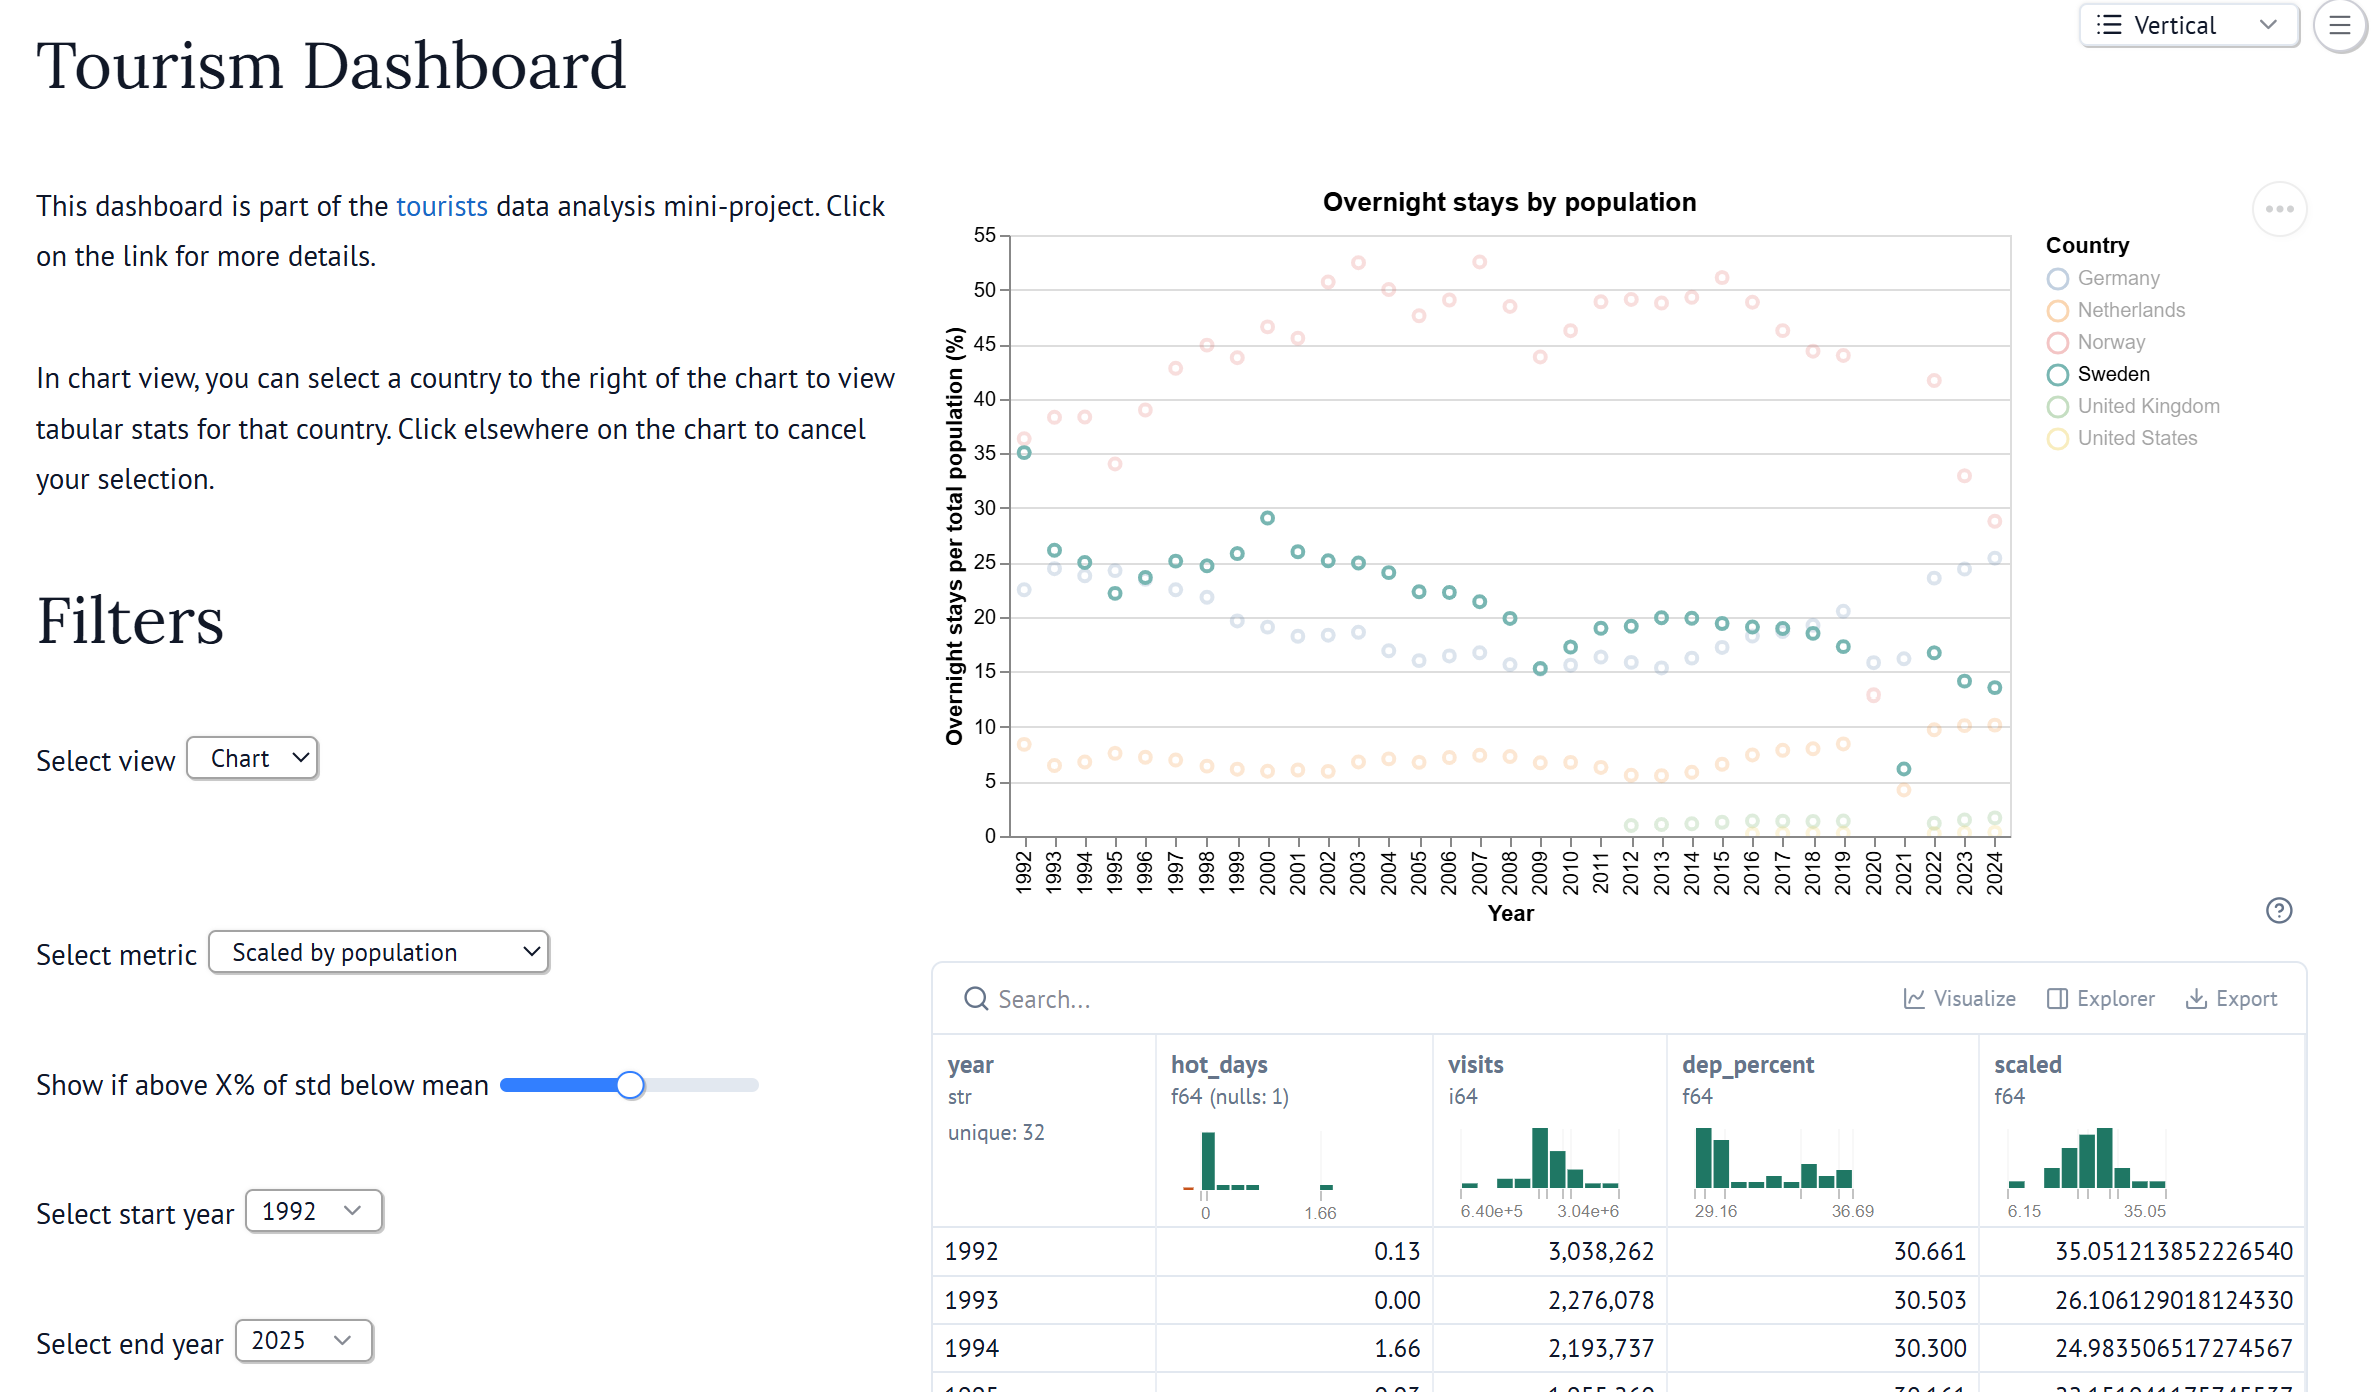
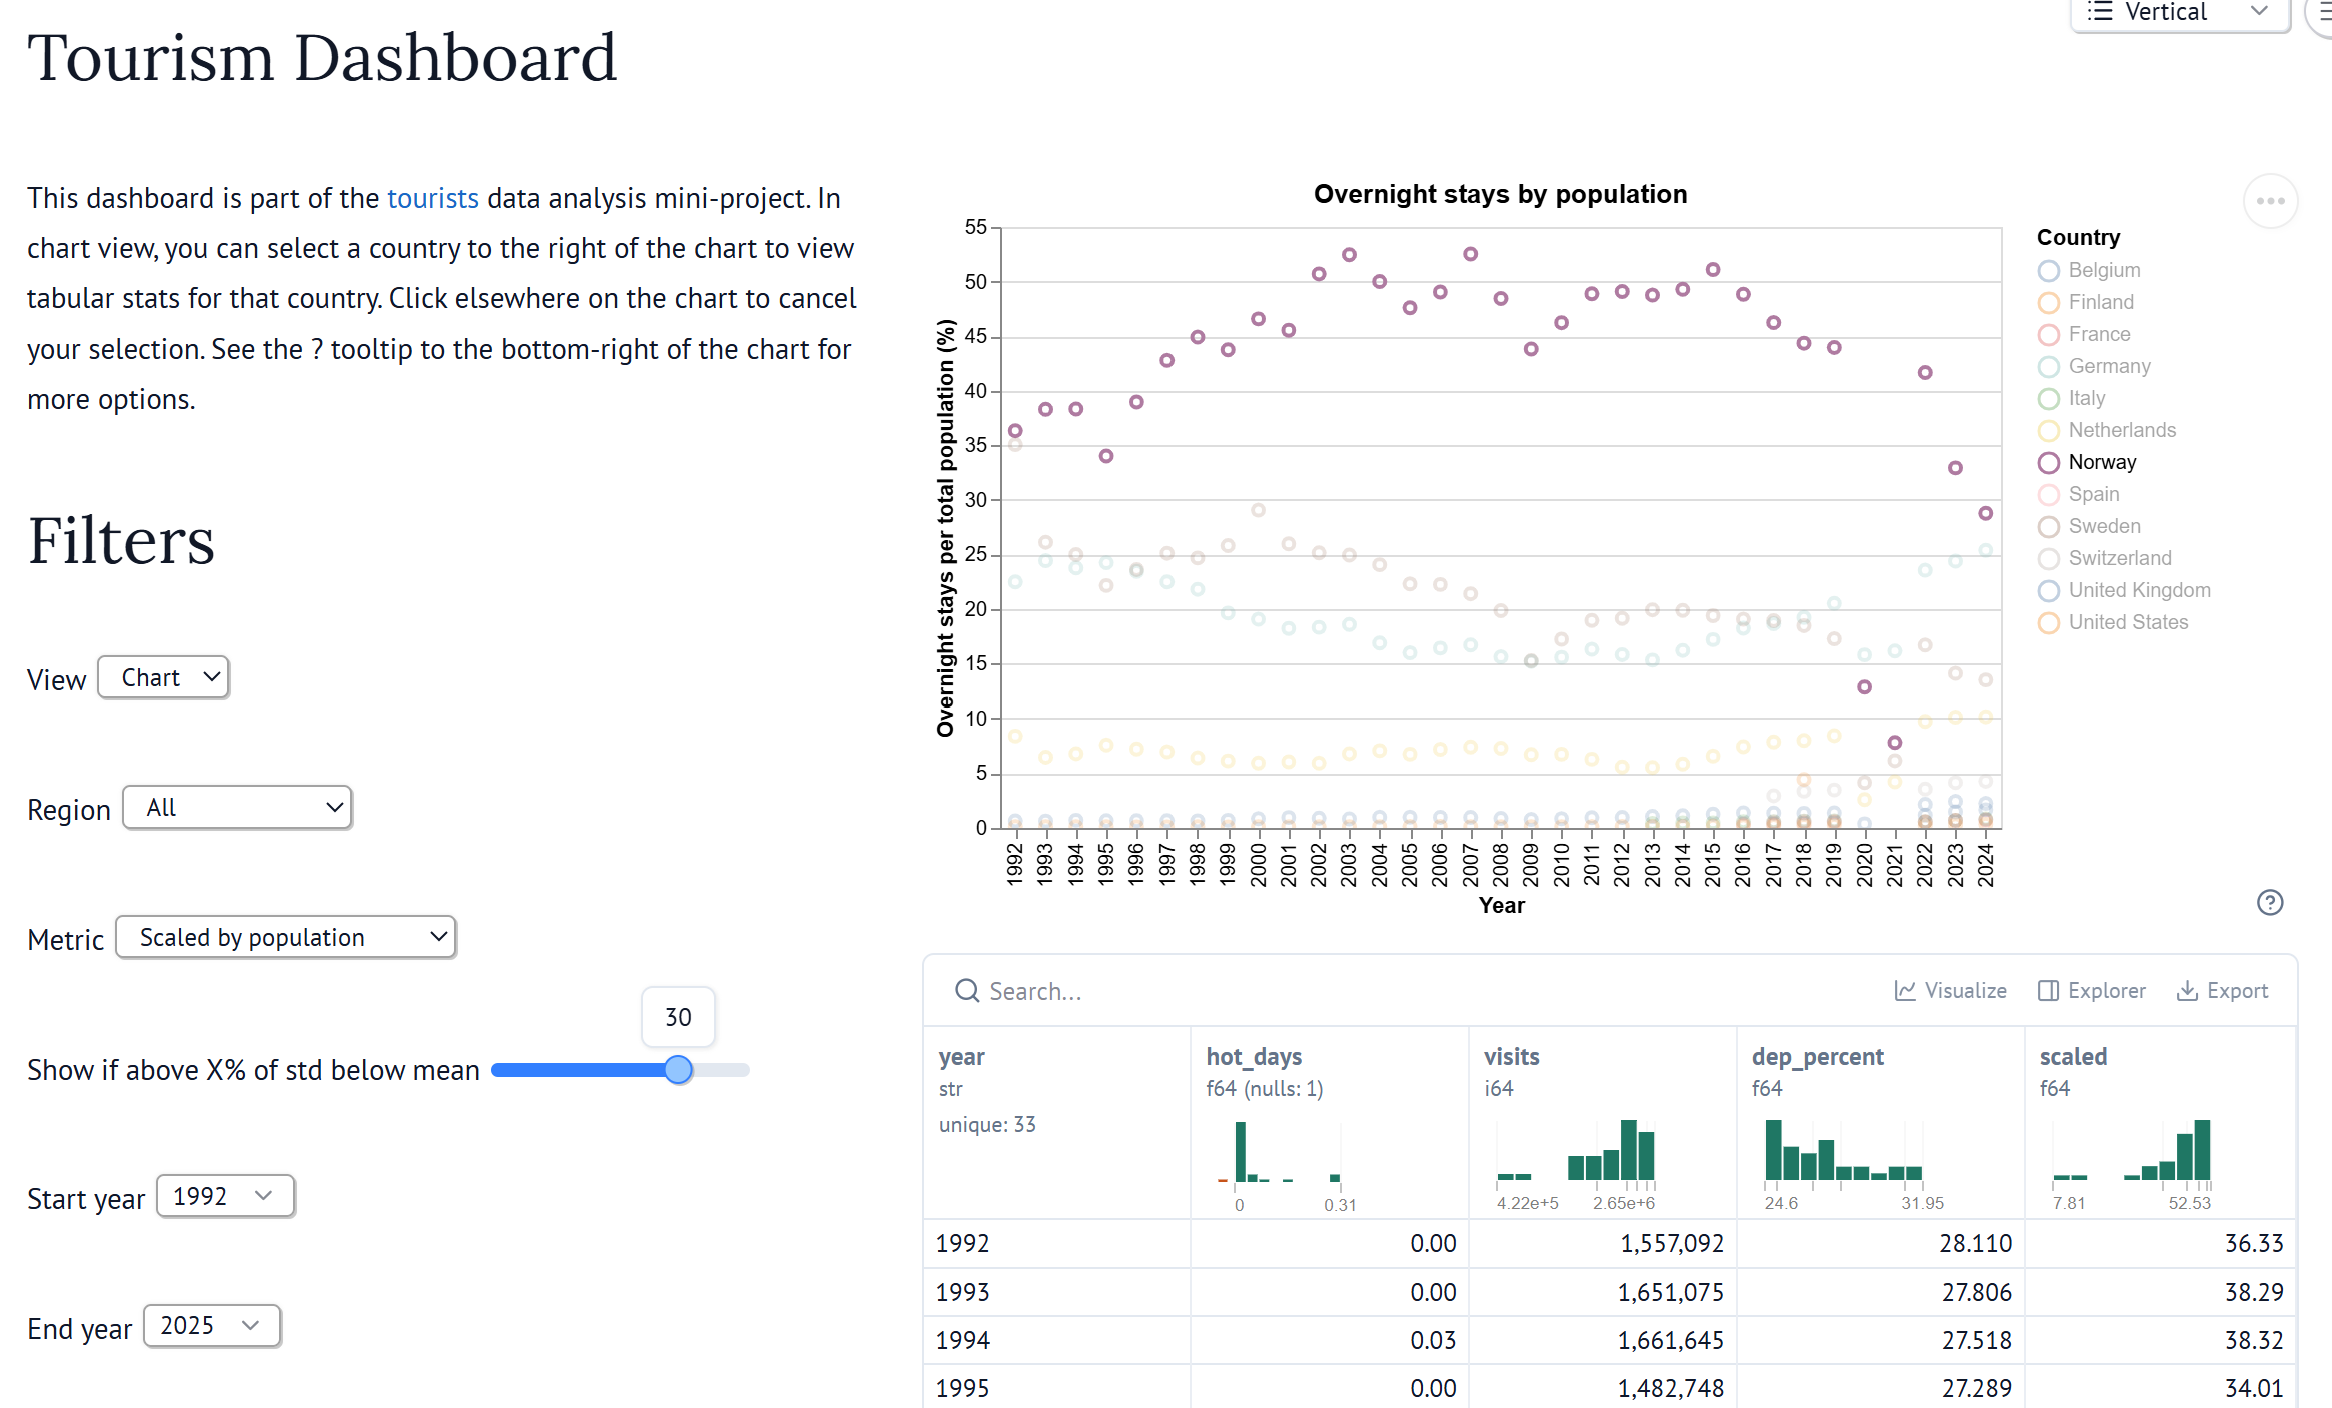
Add charts and tables; update README

diff --git a/README.md b/README.md
@@ -5,15 +5,13 @@
 - [Interactive Dashboard](#interactive-dashboard)
   - [Current progress](#current-progress)
   - [Charts](#charts)
-    - ["Big hitters"](#big-hitters)
-    - [Western EU](#western-eu)
-    - [Nordics (excluding Denmark)](#nordics-excluding-denmark)
-    - [Southern EU](#southern-eu)
-    - [North America](#north-america)
-  - [Preliminary findings](#preliminary-findings)
+    - [Regional vistis scaled by population](#regional-vistis-scaled-by-population)
+    - [Preliminary findings](#preliminary-findings)
+  - [Preliminary findings](#preliminary-findings-1)
     - [Regional groupings](#regional-groupings)
     - [Outliers in earlier years of tourist data](#outliers-in-earlier-years-of-tourist-data)
     - [Preliminary regional trends](#preliminary-regional-trends)
+    - [UK economic trends](#uk-economic-trends)
     - [Early indications of the role of climate change?](#early-indications-of-the-role-of-climate-change)
     - [Dependency ratio](#dependency-ratio)
   - [Research questions](#research-questions)
@@ -24,10 +22,6 @@
 - [Data sources](#data-sources)
 
 ## Introduction
-
-<!--
-TODO:Answer the question for why I'm focusing so much on the tech explanations and less on other things.
--->
 
 **This project is still under active development and is subject to frequent changes.**
 
@@ -69,7 +63,7 @@ The limiting starting year for the data is the tourist dataset, which extends ba
 
 [Go to dashboard](https://molab.marimo.io/notebooks/nb_SuhkMpUkmvbTHzRQd2rt21/app)
 
-The dashboard is currently being expanded with new functionality.
+The dashboard my be expanded in the future with additional functionality, but it is feature complete for now.
 
 ![Tourism dashboard](./images/screenshots/tourism-dashboard.png)
 
@@ -85,13 +79,14 @@ The dashboard is currently being expanded with new functionality.
   - [Action repository](https://github.com/amanda-amy-frost/jupyter-to-pdf-action)
 - :ballot_box_with_check: (Optional) Marimo toy example
   - [Interactive dashboard](https://molab.marimo.io/notebooks/nb_SuhkMpUkmvbTHzRQd2rt21/app)
+  - [GitHub repository](https://github.com/amanda-amy-frost/tourists-dashboard)
 - :x: (Optional) Power BI dashboard
   - Blocked from publishing due to Microsoft's account [requirements](https://learn.microsoft.com/en-us/power-bi/collaborate-share/service-publish-to-web#prerequisites) (i.e. work email)
   - See [screenshot](./images/screenshots/power-bi.png) for initial experimentation
 - :ballot_box_with_check: Preliminary findings
 - :ballot_box_with_check: Formulate research questions
 - :pause_button: Technical documentation (see [notebook](./scripts/DataAnalysis.ipynb))
-- :yellow_square: Expand dashboard functionality
+- :ballot_box_with_check: Expand dashboard functionality
 - :ballot_box: Select statistical tools and methods
 - :ballot_box: Statistical analysis
 - :ballot_box: Final chart generation
@@ -99,31 +94,53 @@ The dashboard is currently being expanded with new functionality.
 - :ballot_box: Conclusion write-up
 - :ballot_box: Fix PDF automation bug
 
-<details open>
-
-<summary><b>Click to show or hide the current graphs</b></summary>
-
 ### Charts
 
-#### "Big hitters"
+#### Regional vistis scaled by population
+
+<details>
+
+<summary><b>Click to show or hide</b></summary>
+
+**"Big hitters"**
 
 ![Big hitters](./images/svg/big_hitters.svg)
 
-#### Western EU
+**Western EU**
 
 ![Western EU](./images/svg/west_eu.svg)
 
-#### Nordics (excluding Denmark)
+**Nordics (excluding Denmark)**
 
 ![Nordics](./images/svg/nordics.svg)
 
-#### Southern EU
+**Southern EU**
 
 ![Southern EU](./images/svg/south_eu.svg)
 
-#### North America
+**North America**
 
 ![North America](./images/svg/nor_amer.svg)
+
+</details>
+
+#### Preliminary findings
+
+<details>
+
+<summary><b>Click to show or hide</b></summary>
+
+**Financial crash (UK)**
+
+![UK financial crash](./images/svg/uk_financial_crash.svg)
+
+![Financial crash table](./images/tables/uk_financial_crash_table.png)
+
+**Additional impact of Brexit**
+
+![Brexit](./images/svg/uk_brexit.svg)
+
+![Brexit table](./images/tables/uk_brexit_table.png)
 
 </details>
 
@@ -157,17 +174,25 @@ The "big hitters" are so named because, by portion of the total population, both
 
 #### Outliers in earlier years of tourist data
 
-While the tourist data goes back to 1992, some countries such as Iceland, Portugal, and Ireland were clear outliers until the early 2000s due to how few people visited Denmark at the time. I decided to exclude these years entirely to avoid skewing the data for those countries and peforming an incorrect analysis. For completeness visualization purposes, those years are still included in the [interactive app](https://molab.marimo.io/notebooks/nb_SuhkMpUkmvbTHzRQd2rt21/app).
+While the tourist data goes back to 1992, some countries such as Iceland, Portugal, and Ireland were clear outliers until the early 2000s due to how few people visited Denmark at the time. I decided to exclude these years entirely (for all countries) to avoid skewing the data and peforming an incorrect analysis. For completeness and visualization purposes, those years are still included in the [interactive app](https://molab.marimo.io/notebooks/nb_SuhkMpUkmvbTHzRQd2rt21/app).
 
-To first find which year to start at though, I needed some process to exlucde the outliers. My process for doing this was a bit loose. I wanted to use the standard deviation in some way as my primary indicator for the variability of the data. There are also metrics such as the coefficient of variation, but I wanted to be brutal and straightforward and just find some reasonable start year without considering which metric would best apply here.
+To first find which year to start at though, I needed some process to exclude the outliers. My process for doing this was a bit loose. I wanted to use the standard deviation in some way as my primary indicator for the variability of the data. There are also metrics worthy of consideration, but I wanted to be straightforward and just find some reasonable start year without considering which metric would best apply here.
 
-I decided that I would do the following: I wanted to find a constant to multiply the standard deviation with such that the first year ("starting year") of the filtered dataset would be the year where all countries had visits that were *at minimum* that value below the mean *or above*. In other words:
+I decided to do the following: I wanted to find some constant to multiply the standard deviation with such that the first year ("starting year") of the filtered dataset would be the year where all countries had visits that were *at minimum* that value below the mean *or above*. In other words:
 
-$y : \forall c \in C \; v_c \geq \mu(v_c) - x\sigma(v_c)$
+$\exists x : \forall y \geq y_0 \, \forall c \in C \; v_{yc} \geq \mu(v_{yc}) - x\sigma(v_{yc})$
 
-Where $y$ is the "starting year", $c$ is a country from the set of countries $C$ in my dataset, $v_c$ is visits for that country (in that year), $\mu$ is the mean, $\sigma$ is the standard deviation, and $x$ is what I want to find for my dataset to look reasonable.
+Where $y_0$ is the "starting year", $c$ is a country from the set of countries $C$ in my dataset, $v_{yc}$ is visits from that country in that year, $\mu$ is the mean, $\sigma$ is the standard deviation, and $x$ is what I want to find for my dataset to look reasonable.
 
-I ended up settling on a value of 1.2 for $x$, and the starting year ended up being 2005. In other words, every country's visits from that year onwards - excluding potentially the COVID years - was *no more than* 1.2 standard deviations below the mean. A sanity check confirms that this year seems like a reasonable start, as Iceland is the final outlier in 2004, and its visits jump more than an order of magnitude from that year to the next.
+If your eyes glaze over at the sight of the above expression, then the simplified version is:
+
+$v \geq \mu(v) - x\sigma(v)$
+
+For every year and country starting at some base year.
+
+The one caveat is that this was an iterative process, where a new potential starting year was set as the foundation for the data, and the new standard deviation and mean would be taken for each country based on this new starting year. When the year stabilized - i.e. went through one full iteration without increasing - then I would choose that as the definitive starting year for the full dataset.
+
+In actuality, I played around with $x$ in order to find a reasonable $y_0$. I ended up settling on a value of 1.2 for $x$, which yielded a starting year of 2005. A sanity check confirms that this year seems like a reasonable start, as Iceland is the final outlier in 2004, and its visits jump more than an order of magnitude from that year to the next.
 
 #### Preliminary regional trends
 
@@ -175,7 +200,7 @@ Speaking of, Iceland is one of those interesting countries that is worth highlig
 
 <details>
 
-<summary><b>Show or hide Nordics graph</b></summary>
+<summary><b>Show or hide Nordics chart</b></summary>
 
 ![Nordics](./images/svg/nordics.svg)
 
@@ -183,38 +208,45 @@ Speaking of, Iceland is one of those interesting countries that is worth highlig
 
 To be able to see just how much that event affected Icelandic tourism in comparison to related countries was enlightening.
 
-<!--
+It is also interesting to see the overall decline in tourism from the rest of the Nordics in this data. I don't think I can give any particular insight at this point, but one hypothesis is that the culture, architecture, and variety of experiences and activities to explore is more homogenous between these countries. And if prices become more competitive over time, where for the same price or less you can travel to more "exotic" destinations like Italy (or anywhere else), then there is less likely to be a draw to Denmark from the rest of the Nordics.
 
-Not necessarily the case - take a second look first.
+In fact, in a different project it would be interesting to look at the spatiotemporal variation in flight ticket prices (or full travel packages) from different starting countries.
 
-Now, this stands in contrast to the UK, whose tourism I thought would have been more affected by Brexit, but there are no early indications of that. They did leave right when COVID hit, but there are no early signs of their tourism recovery having been affected after the socioeconomic consequences of COVID levelled off.
+#### UK economic trends
+
+For both the 2008 financial crash, as well as for Brexit, the UK seems to have been particularly (disproportionately) affected by these two events. The UK left the EU almost exactly when COVID hit, so there are clear visual indications of how UK tourism has been suppressed if one assumes that neighboring countries more or less suffered the same economic effects from COVID. That question is also interesting in itself, namely whether the tourist data can be used as a proxy to suggest which countries were more impacted by COVID.
+
+**UK financial crash**
 
 <details>
 
-<summary><b>Click to show or hide Western EU graph</b></summary>
+<summary><b>Show or hide graphs</b></summary>
 
-![Nordics](./images/svg/west_eu.svg)
+![UK financial crash](./images/svg/uk_financial_crash.svg)
+
+![Financial crash table](./images/tables/uk_financial_crash_table.png)
 
 </details>
 
-My hypothesis is that wealth disparity between different classes in the UK is more exaggerated that in Iceland...
-
--->
-
-It is also interesting to see the overall decline in tourism from the rest of the Nordics in this data. I don't think I can give any particular insight at this point, but one hypothesis is that the culture, architecture, and variety of experiences and activities to explore is more homogenous between these countries. And if prices become more competitive over time, where for the same price or less you can travel to more "exotic" destinations like Italy (or anywhere else), then there is less likely to be a draw to Denmark from the rest of the Nordics.
-
-In fact, in a different project it would be interesting to look at the geospatial variation in flight ticket prices (or full travel packages) from different starting countries.
-<!--
-Even if market forces play a role and adapt to fluxuations in demand, that doesn't eliminate the underlying intrinsically motivated change in demand - it just incentivizes it.
--->
-
-#### Early indications of the role of climate change?
-
-One hypothesis I wanted to test, to the point I decided to find some basic data on it, was whether the ever escalating effects of climate change could play a role in deciding who travels where. As Denmark lies more north and has at least a reputation for being a more tolerable climate during summer, one would expect that tourism would increase from warmer, more southern climates like in Italy and Spain. Indeed, this is what we see:
+**Brexit**
 
 <details>
 
-<summary><b>Show or hide Southern EU graph</b></summary>
+<summary><b>Show or hide graphs</b></summary>
+
+![Brexit](./images/svg/uk_brexit.svg)
+
+![Brexit table](./images/tables/uk_brexit_table.png)
+
+</details>
+
+#### Early indications of the role of climate change?
+
+One hypothesis I wanted to test, to the point I decided to find some basic data on it, was whether the ever escalating effects of climate change could play a role in deciding who travels where. As Denmark lies more north and has a reputation for being a more tolerable climate during summer, one would expect that tourism would increase from warmer, more southern climates like in Italy and Spain. Indeed, this is what we see:
+
+<details>
+
+<summary><b>Show or hide Southern EU charts</b></summary>
 
 ![Nordics](./images/svg/south_eu.svg)
 
@@ -228,16 +260,19 @@ The dependency ratio of a country is measured by the portion of people too old o
 
 What I am interested in however is the elderly dependency ratio, or the ratio of retired people compared to the rest of the population. This is increasing in all countries in my dataset, but by different amounts. I am curious if there is a correlation between the ratio of elderly people in a country's population and how popular Denmark is as a tourist destination.
 
+However, the total dependency ratio could prove more useful comparatively, but that remains to be seen.
+
 </details>
 
 ### Research questions
 
-- How does tourism to Denmark correlate with the eldery dependency ratio?
-- Has Brexit meaningfully impacted UK tourism to Denmark compared to similar countries?
+- How does tourism to Denmark correlate with the eldery and total dependency ratios?
+- How much has Brexit meaningfully impacted UK tourism to Denmark compared to similar countries?
 - Does the warmth of a country's climate affect tourist visits to Denmark?
 - Just how impactful was COVID on overall tourism?
   - Are there still any long-term effects that can be seen? (E.g. Is the increasing demand from countries still suppressed compared to before COVID?)
   - What was the magnitude of the impact of COVID on tourism? In other words, how suppressed was tourism during the peak years of COVID?
+- Similarly, what insights can be gleamed about the 2008 financial crash based on the data?
 - Can I use the data I have to make predictions about the missing years from my climate and population datasets? And can those predictions be used as a measure for the accuracy of my predictions and underlying analysis?
 
 ## Technical decisions